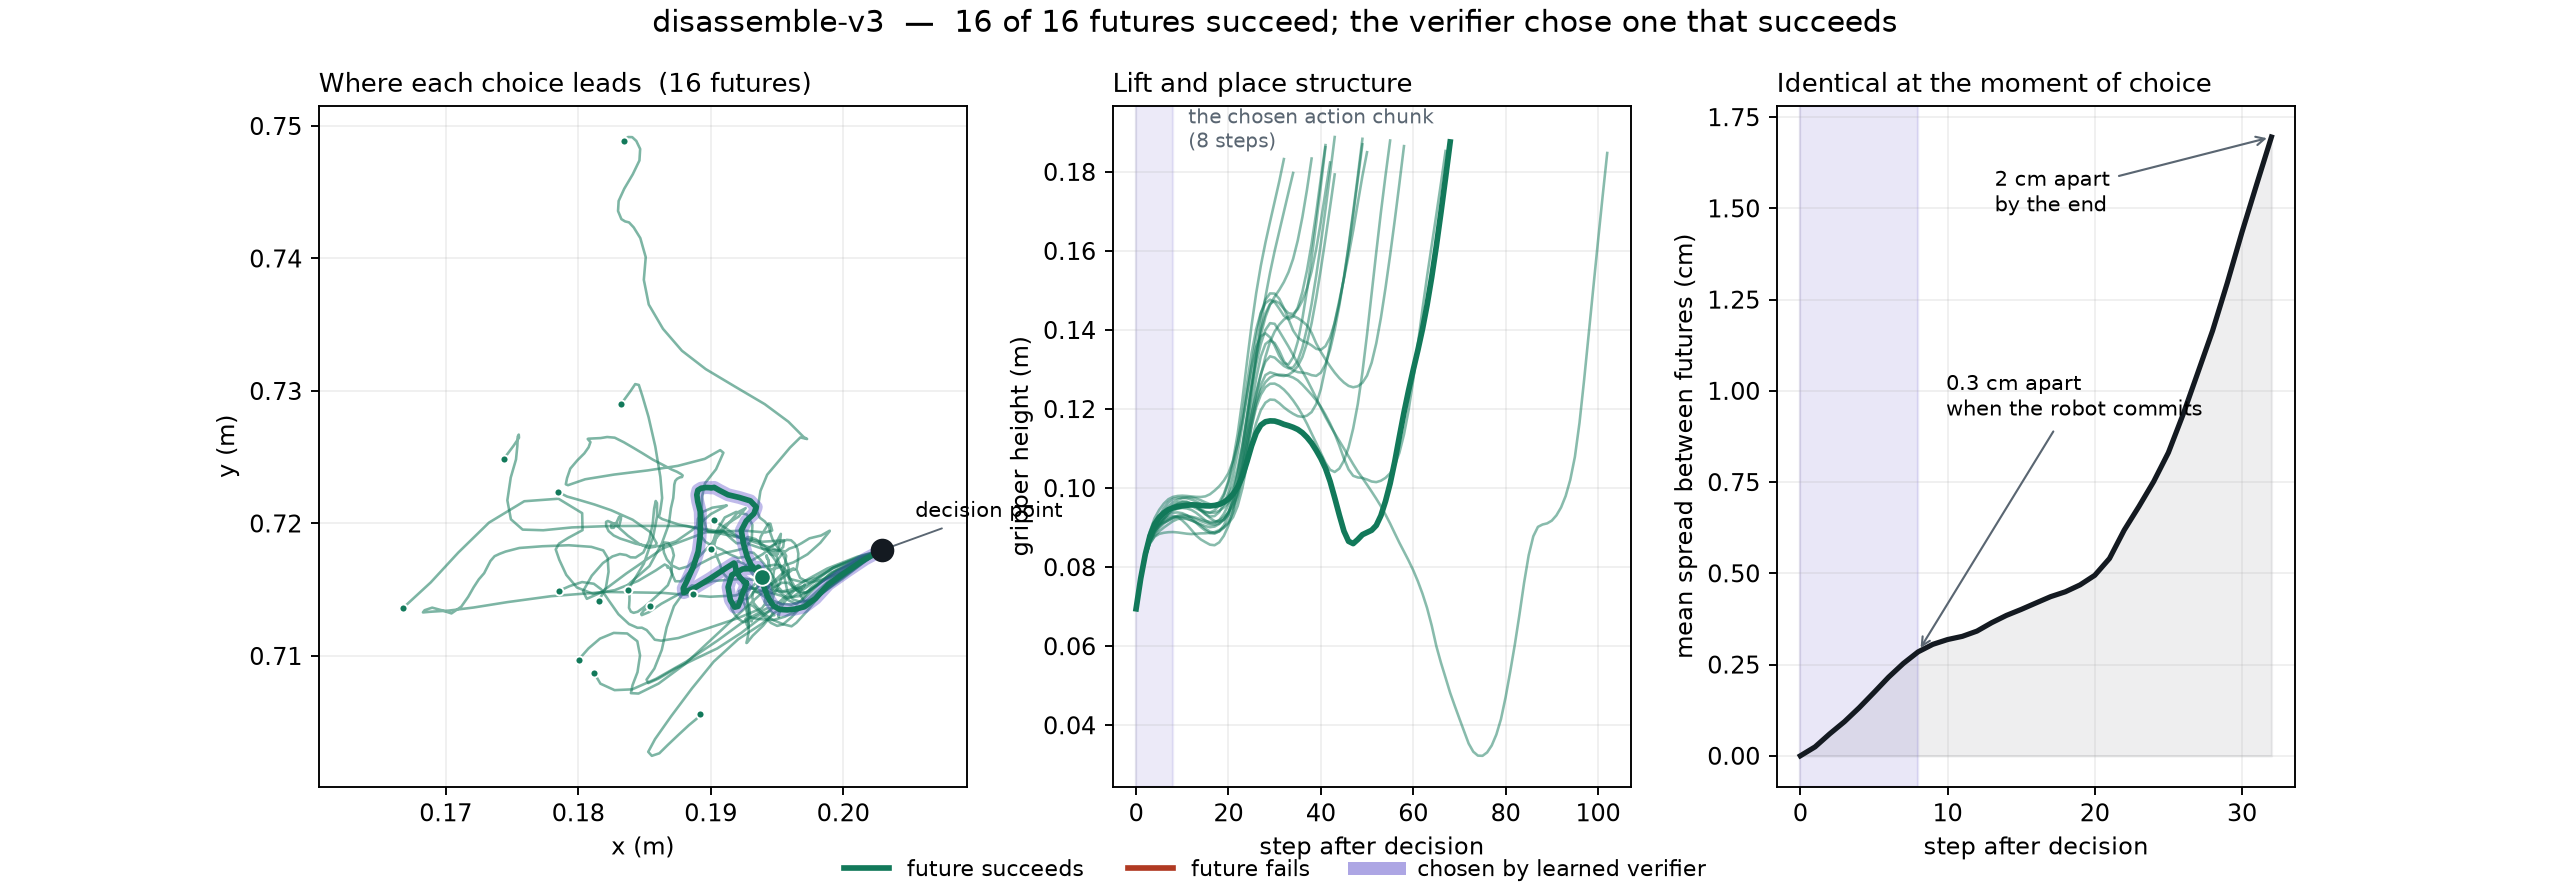
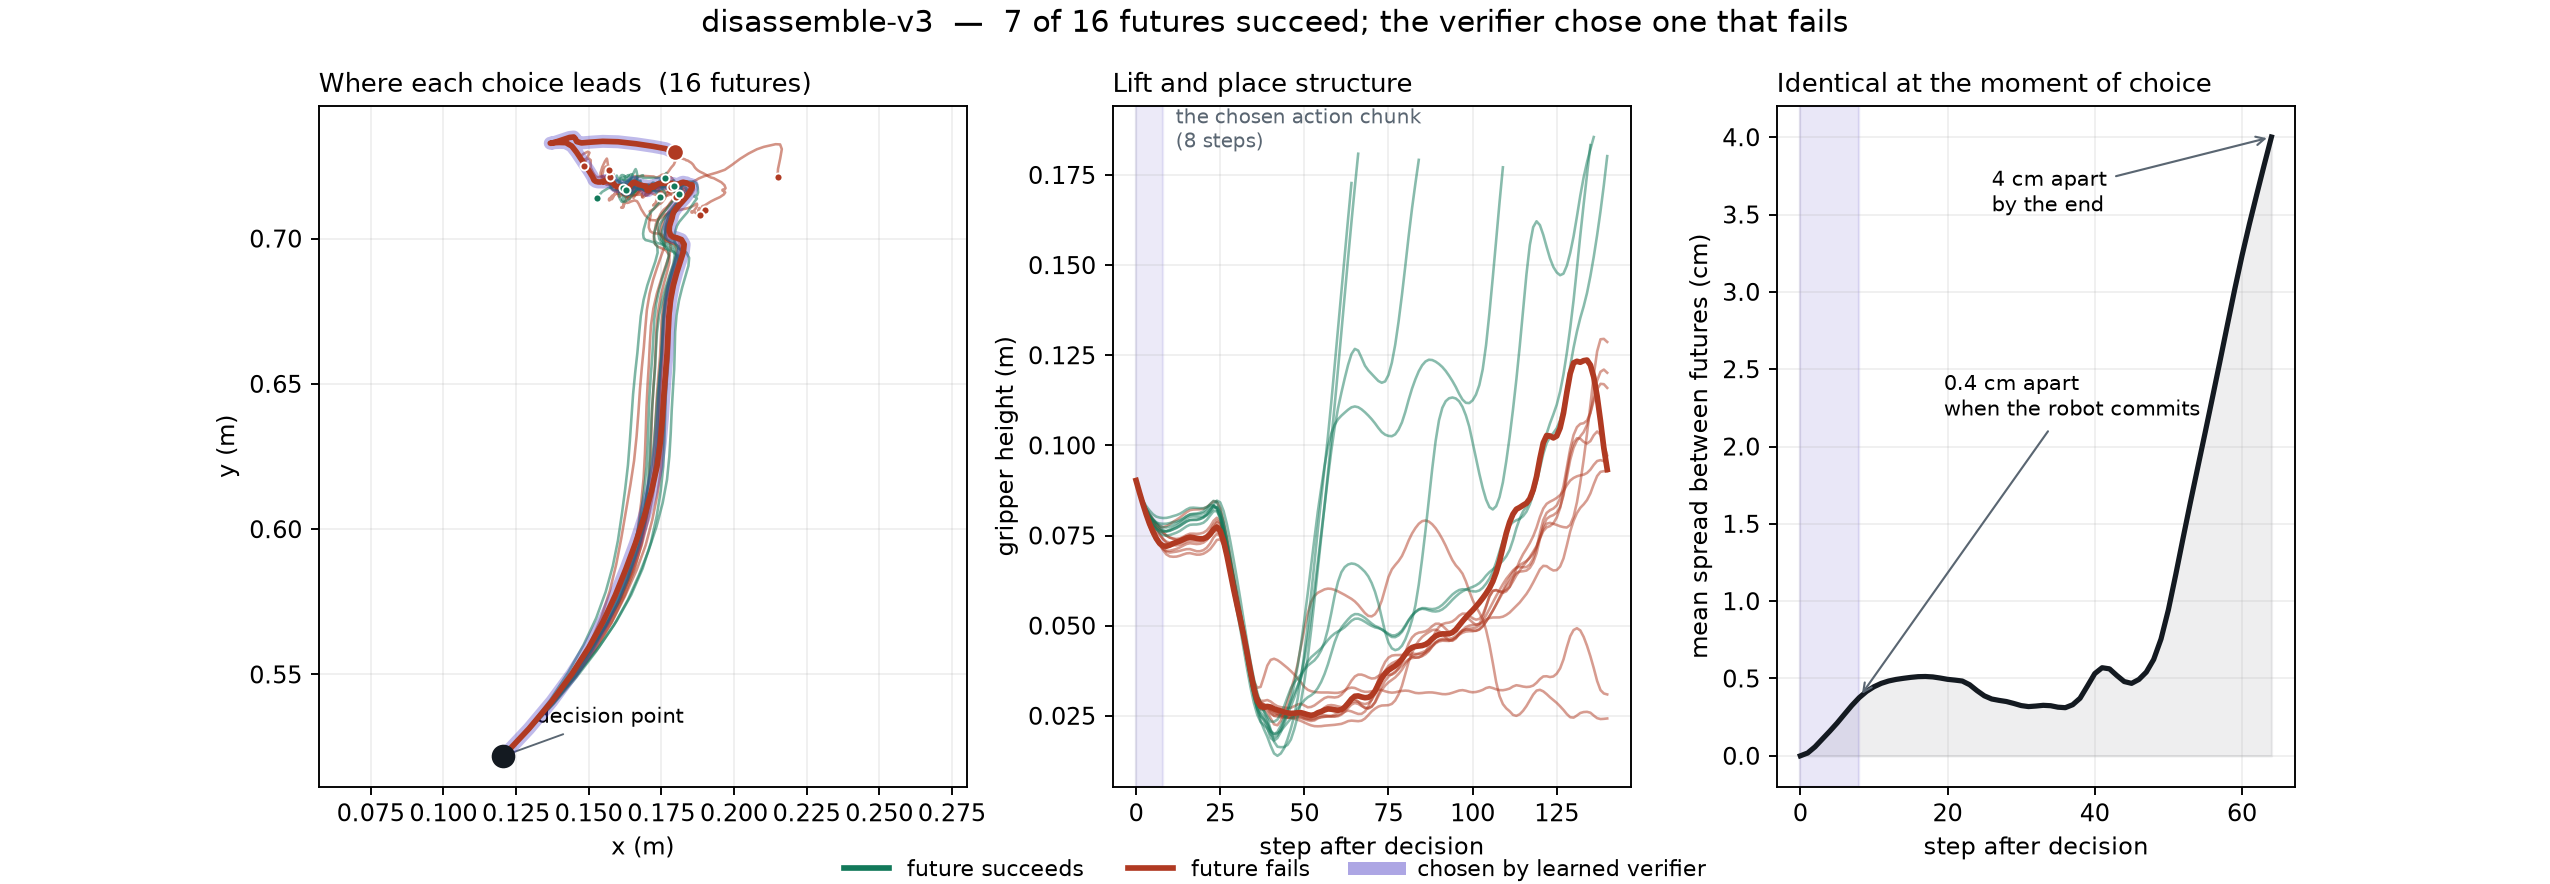
fix futures viz: shared continuation seed, warmup in steps not chunks

diff --git a/scripts/viz/find_pivotal.py b/scripts/viz/find_pivotal.py
@@ -37,7 +37,7 @@ def probe(env, pol, k, seed, n_exec, horizon):
             if term or trunc or success:
                 break
         while steps < horizon and not (success or term or trunc):
-            nxt = pol.sample(obs, n=1, seed=seed + 7919 * ci + steps)[0]
+            nxt = pol.sample(obs, n=1, seed=seed + steps)[0]
             for a in nxt[:n_exec]:
                 obs, _, term, trunc, info = env.step(a)
                 steps += 1
@@ -45,6 +45,11 @@ def probe(env, pol, k, seed, n_exec, horizon):
                 if term or trunc or success or steps >= horizon:
                     break
         wins += int(success)
+        if steps <= 1:
+            # Futures that end immediately mean the state is already
+            # terminal; its success fraction is meaningless.
+            env.restore_state(snap)
+            return -1.0
         env.restore_state(snap)
     return wins / len(pool)
 
@@ -72,13 +77,19 @@ def main():
             while step < w and not (term or trunc):
                 chunk = pol.sample(obs, n=1, seed=ep * 100 + step)[0]
                 for act in chunk[:a.n_exec]:
-                    obs, _, term, trunc, _ = env.step(act)
+                    obs, _, term, trunc, _info = env.step(act)
                     step += 1
+                    if _info.get('success', 0.0):
+                        term = True   # stop warmup before the task is solved
                     if term or trunc:
                         break
             if term or trunc:
                 break
             frac = probe(env, pol, a.k, candidate_seed(ep, w), a.n_exec, a.horizon)
+            if frac < 0:
+                print(f'  ep {ep:2d}  warmup {w:3d}  ->  already terminal, skipped',
+                      flush=True)
+                continue
             results.append((abs(frac - 0.5), ep, w, frac))
             print(f"  ep {ep:2d}  warmup {w:3d}  ->  {frac:.2f} of futures succeed",
                   flush=True)

diff --git a/scripts/viz/render_futures.py b/scripts/viz/render_futures.py
@@ -127,7 +127,7 @@ def roll_futures(env, pol, dyn, val, k, seed, n_exec, plan_h, horizon):
                 break
 
         while steps < horizon and not (success or term or trunc):
-            nxt = pol.sample(obs, n=1, seed=seed + 7919 * ci + steps)[0]
+            nxt = pol.sample(obs, n=1, seed=seed + steps)[0]
             for a in nxt[:n_exec]:                     # then the base policy
                 obs, _, term, trunc, info = env.step(a)
                 pts.append(track()); actions.append(np.array(a)); steps += 1
@@ -207,14 +207,16 @@ def main():
     env = make_env(a.task, seed=a.episode, max_steps=1000)
     obs, _ = env.reset(seed=a.episode)
     term = trunc = False
-    for t in range(a.warmup):
-        chunk = pol.sample(obs, n=1, seed=a.episode * 100 + t)[0]
+    step = 0
+    while step < a.warmup and not (term or trunc):
+        chunk = pol.sample(obs, n=1, seed=a.episode * 100 + step)[0]
         for act in chunk[:a.n_exec]:
-            obs, _, term, trunc, _ = env.step(act)
-            if term or trunc:
+            obs, _, term, trunc, _info = env.step(act)
+            step += 1
+            if _info.get("success", 0.0):
+                term = True   # never branch from an already-solved state
+            if term or trunc or step >= a.warmup:
                 break
-        if term or trunc:
-            break
 
     print(f"rolling {a.k} futures, up to {a.horizon} steps each...")
     pool, futures, belief, snap = roll_futures(

diff --git a/scripts/viz/plot_futures.py b/scripts/viz/plot_futures.py
@@ -42,14 +42,16 @@ def collect(a):
     env = make_env(a.task, seed=a.episode, max_steps=1000)
     obs, _ = env.reset(seed=a.episode)
     term = trunc = False
-    for t in range(a.warmup):
-        chunk = pol.sample(obs, n=1, seed=a.episode * 100 + t)[0]
+    step = 0
+    while step < a.warmup and not (term or trunc):
+        chunk = pol.sample(obs, n=1, seed=a.episode * 100 + step)[0]
         for act in chunk[:a.n_exec]:
-            obs, _, term, trunc, _ = env.step(act)
-            if term or trunc:
+            obs, _, term, trunc, _info = env.step(act)
+            step += 1
+            if _info.get("success", 0.0):
+                term = True   # never branch from an already-solved state
+            if term or trunc or step >= a.warmup:
                 break
-        if term or trunc:
-            break
 
     print(f"rolling {a.k} futures, up to {a.horizon} steps each...")
     pool, futures, belief, _ = roll_futures(
